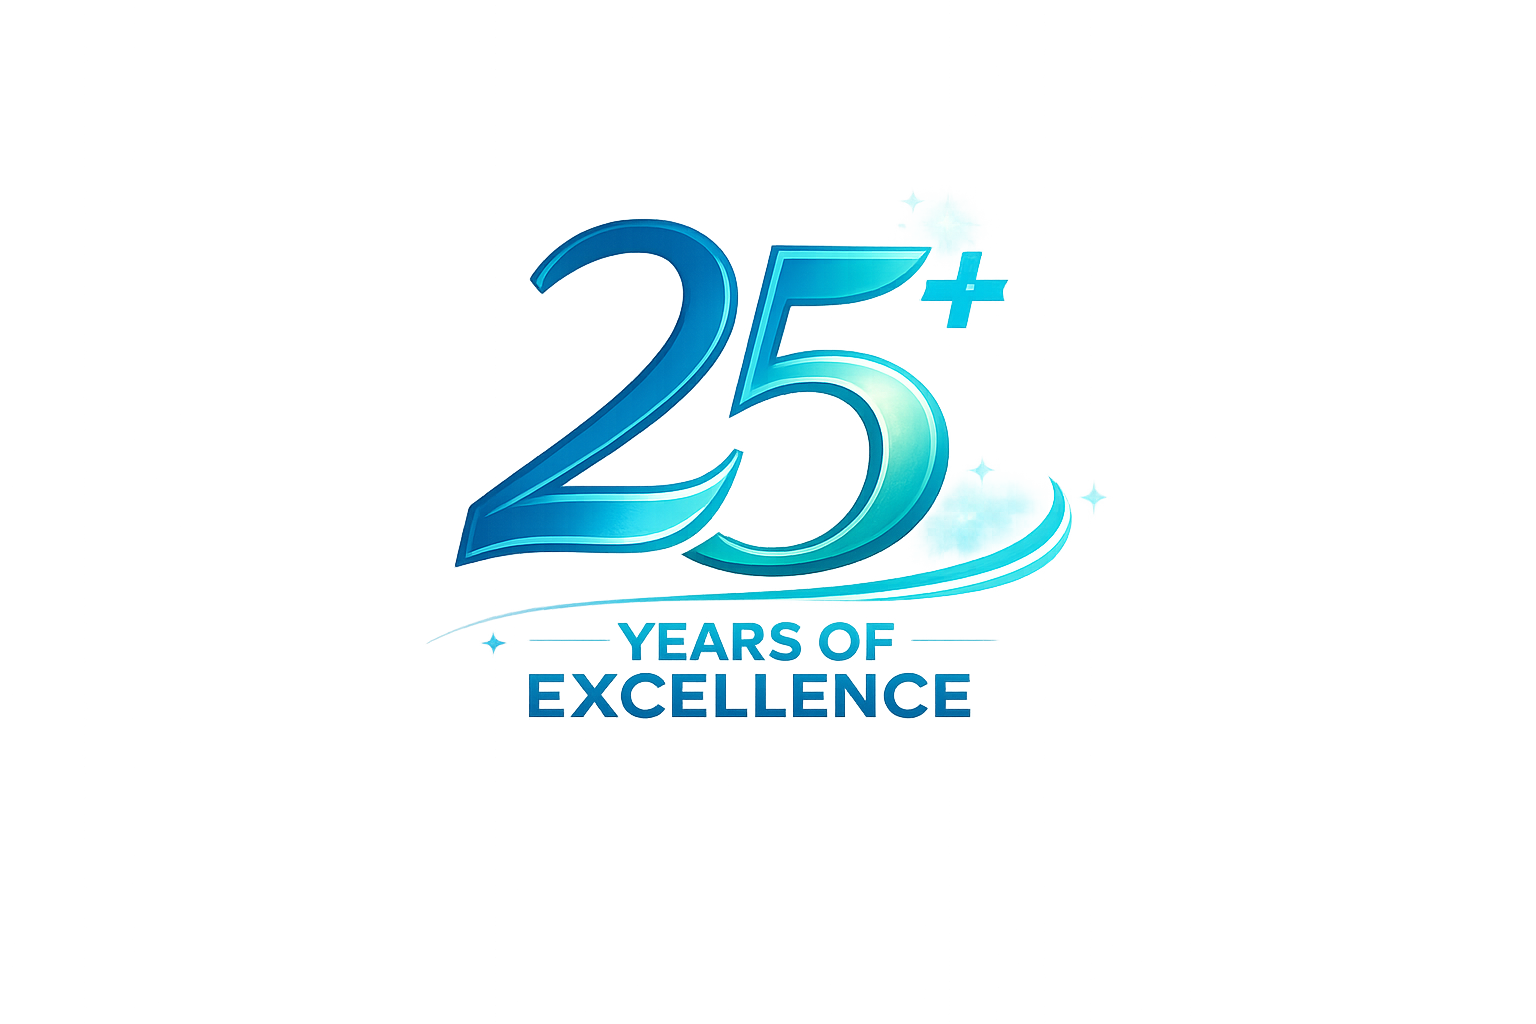
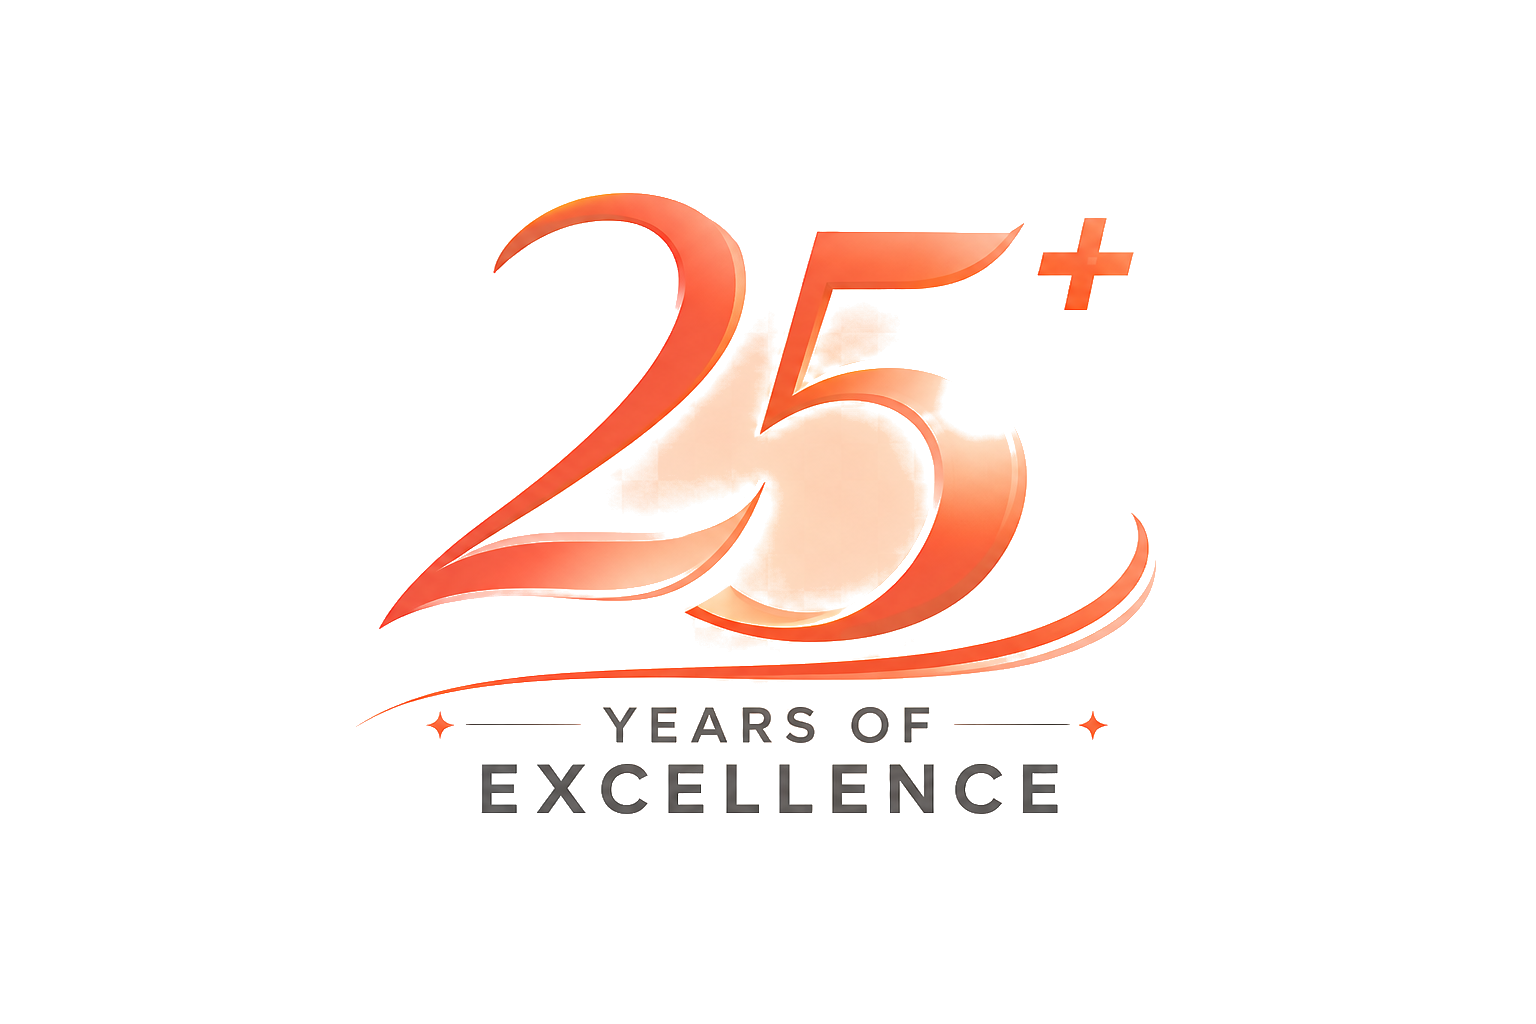
feat: add homepage Placements section, swap 25-years image asset
- New warm-orange "25+ Years of Excellence" graphic replaces the old
  cyan-on-grey one. The exported PNG had no real alpha channel (a
  checkerboard transparency indicator was baked into opaque pixels
  rather than true alpha) so it needed a proper cutout, not just a
  mix-blend-mode swap: punched transparency based on pixel brightness,
  preserving the saturated orange numerals and dark wordmark. Dropped
  mix-blend-screen in about-nifs.tsx now that the asset is genuinely
  transparent.
- New Placements homepage section (src/components/sections/
  placements-section.tsx), inserted between AboutNifs and CentersGrid
  inside the existing SpineLayout. Reuses SpineGutterBg/SpineSplit
  unmodified; a count-up "45,000+ Candidates Placed" flagship stat
  (first use of the previously-unused useCountUp/useInView hooks) with
  a warm radial glow sits in the spine center slot, career-outcome
  copy + roles on the left (reused verbatim from the /placements page),
  a featured recruiter-logo grid on the right, and a full-width
  scrolling marquee of all 18 real recruiter logos below. Only
  previously-verified numbers are used — no salary figures, placement
  percentages, or individual testimonials, since none of those exist
  anywhere in this codebase as verified data.

Changed region(s): [[0.25, 0.1875, 0.75, 0.8125], [0.6875, 0.6875, 0.7188, 0.7188]]

diff --git a/src/components/sections/placements-section.tsx b/src/components/sections/placements-section.tsx
@@ -1,0 +1,223 @@
+"use client";
+
+import Image from "next/image";
+import Link from "next/link";
+import { motion, useReducedMotion } from "framer-motion";
+import { recruiterLogos } from "@/lib/data/centers";
+import { SpineGutterBg, SpineSplit } from "@/components/sections/spine-helpers";
+import { useCountUp, useInView } from "@/components/sections/scroll-reveal-hooks";
+
+const roles = [
+  "Fire Safety Officer",
+  "Industrial Safety Supervisor",
+  "HSE Manager",
+  "Emergency Response Coordinator",
+  "Risk Analyst",
+];
+
+const featuredRecruiters = ["Adani", "L&T", "ITC", "GMR", "MEIL", "Amazon"];
+
+function FlagshipStat({ size = "large" }: { size?: "large" | "small" }) {
+  const reduceMotion = useReducedMotion();
+  const [ref, inView] = useInView<HTMLDivElement>(0.4);
+  const [value, done] = useCountUp(45000, inView, 1400);
+  const displayValue = reduceMotion ? 45000 : value;
+  const glowSize = size === "large" ? "320px" : "220px";
+  const numberClass = size === "large" ? "text-6xl" : "text-4xl";
+
+  return (
+    <div ref={ref} className="relative flex flex-col items-center justify-center gap-2 text-center">
+      <div
+        aria-hidden="true"
+        className="absolute rounded-full"
+        style={{
+          width: glowSize,
+          height: glowSize,
+          background:
+            "radial-gradient(circle, color-mix(in oklch, var(--nifs-orange) 55%, transparent) 0%, transparent 70%)",
+        }}
+      />
+      <span className={`relative font-display italic text-white ${numberClass}`}>
+        {displayValue.toLocaleString("en-IN")}
+        {(done || reduceMotion) && "+"}
+      </span>
+      <span className="relative text-xs font-medium tracking-[0.2em] text-white/70 uppercase">
+        Candidates Placed
+      </span>
+    </div>
+  );
+}
+
+function LogoMarquee() {
+  const track = (
+    <div className="flex w-max items-center whitespace-nowrap">
+      {recruiterLogos.map((r) => (
+        <div
+          key={r.name}
+          className="mx-3 flex h-16 w-32 shrink-0 items-center justify-center rounded-md bg-white p-3"
+        >
+          <div className="relative h-full w-full">
+            <Image src={r.logo!} alt={r.name} fill className="object-contain" sizes="128px" />
+          </div>
+        </div>
+      ))}
+    </div>
+  );
+
+  return (
+    <div className="relative z-[3] mt-14 overflow-hidden">
+      <div className="pointer-events-none absolute inset-y-0 left-0 z-10 w-16 bg-gradient-to-r from-[#111111] to-transparent lg:w-32" />
+      <div className="pointer-events-none absolute inset-y-0 right-0 z-10 w-16 bg-gradient-to-l from-[#111111] to-transparent lg:w-32" />
+      <div className="animate-marquee flex w-max">
+        {track}
+        {track}
+      </div>
+    </div>
+  );
+}
+
+export function Placements() {
+  const reduceMotion = useReducedMotion();
+  const fadeUp = reduceMotion
+    ? {}
+    : {
+        initial: { opacity: 0, y: 24 },
+        whileInView: { opacity: 1, y: 0 },
+        viewport: { once: true, margin: "-100px" },
+        transition: { duration: 0.6, ease: "easeOut" as const },
+      };
+
+  const remainingCount = recruiterLogos.length - featuredRecruiters.length;
+
+  return (
+    <section className="relative overflow-hidden py-6 lg:py-0">
+      <SpineGutterBg color="#111111" />
+
+      {/* ── DESKTOP: spine split ── */}
+      <div className="hidden lg:block">
+        <SpineSplit
+          align="center"
+          left={
+            <motion.div {...fadeUp} className="text-white">
+              <span className="text-xs font-semibold tracking-widest text-primary uppercase">
+                Career Outcomes
+              </span>
+              <h2 className="font-display mt-3 text-3xl italic leading-tight">
+                Where our graduates work
+              </h2>
+              <p className="mt-4 text-sm leading-relaxed text-white/70">
+                Our placement cell partners directly with recruiters across
+                construction, EPC, manufacturing, and FMCG to place every
+                graduating batch into real industrial safety roles.
+              </p>
+              <ul className="mt-5 space-y-1.5 text-sm text-white/80">
+                {roles.map((role) => (
+                  <li key={role} className="flex items-center gap-2">
+                    <span className="h-1 w-1 shrink-0 rounded-full bg-primary" />
+                    {role}
+                  </li>
+                ))}
+              </ul>
+              <Link
+                href="/placements"
+                className="mt-6 inline-block text-sm font-medium text-primary underline-offset-4 hover:underline"
+              >
+                View All Placements →
+              </Link>
+            </motion.div>
+          }
+          center={
+            <motion.div {...fadeUp}>
+              <FlagshipStat />
+            </motion.div>
+          }
+          right={
+            <motion.div {...fadeUp}>
+              <div className="grid grid-cols-3 gap-3">
+                {recruiterLogos
+                  .filter((r) => featuredRecruiters.includes(r.name))
+                  .map((r) => (
+                    <div
+                      key={r.name}
+                      className="flex h-16 items-center justify-center rounded-md border border-white/10 bg-white p-3"
+                    >
+                      <div className="relative h-full w-full">
+                        <Image
+                          src={r.logo!}
+                          alt={r.name}
+                          fill
+                          className="object-contain"
+                          sizes="100px"
+                        />
+                      </div>
+                    </div>
+                  ))}
+              </div>
+              <p className="mt-3 text-xs text-white/60">
+                +{remainingCount} more recruiting partners
+              </p>
+            </motion.div>
+          }
+        />
+      </div>
+
+      {/* ── MOBILE: stacked single column ── */}
+      <div className="relative z-[3] mx-auto max-w-5xl px-6 py-16 text-center text-white lg:hidden">
+        <motion.div {...fadeUp}>
+          <span className="text-xs font-semibold tracking-widest text-primary uppercase">
+            Career Outcomes
+          </span>
+          <h2 className="font-display mt-3 text-2xl italic leading-tight">
+            Where our graduates work
+          </h2>
+          <p className="mx-auto mt-4 max-w-[420px] text-sm leading-relaxed text-white/70">
+            Our placement cell partners directly with recruiters across
+            construction, EPC, manufacturing, and FMCG to place every
+            graduating batch into real industrial safety roles.
+          </p>
+        </motion.div>
+
+        <motion.div {...fadeUp} className="mt-10">
+          <FlagshipStat size="small" />
+        </motion.div>
+
+        <motion.ul {...fadeUp} className="mx-auto mt-8 flex max-w-[320px] flex-col gap-1.5 text-sm text-white/80">
+          {roles.map((role) => (
+            <li key={role} className="flex items-center justify-center gap-2">
+              <span className="h-1 w-1 shrink-0 rounded-full bg-primary" />
+              {role}
+            </li>
+          ))}
+        </motion.ul>
+
+        <motion.div {...fadeUp} className="mt-8 grid grid-cols-3 gap-3">
+          {recruiterLogos
+            .filter((r) => featuredRecruiters.includes(r.name))
+            .map((r) => (
+              <div
+                key={r.name}
+                className="flex h-16 items-center justify-center rounded-md border border-white/10 bg-white p-3"
+              >
+                <div className="relative h-full w-full">
+                  <Image src={r.logo!} alt={r.name} fill className="object-contain" sizes="100px" />
+                </div>
+              </div>
+            ))}
+        </motion.div>
+        <p className="mt-3 text-xs text-white/60">
+          +{remainingCount} more recruiting partners
+        </p>
+
+        <Link
+          href="/placements"
+          className="mt-6 inline-block text-sm font-medium text-primary underline-offset-4 hover:underline"
+        >
+          View All Placements →
+        </Link>
+      </div>
+
+      <LogoMarquee />
+      <div className="relative z-[3] pb-10 lg:pb-16" />
+    </section>
+  );
+}

diff --git a/src/app/page.tsx b/src/app/page.tsx
@@ -4,6 +4,7 @@ import { SpineLayout } from "@/components/SpineLayout";
 import { TunnelHero } from "@/components/sections/tunnel-hero";
 import { WhyNIFS } from "@/components/sections/WhyNIFS";
 import { AboutNifs } from "@/components/sections/about-nifs";
+import { Placements } from "@/components/sections/placements-section";
 import { CentersGrid } from "@/components/sections/centers-grid";
 
 export default function HomePage() {
@@ -12,10 +13,11 @@ export default function HomePage() {
       {/* Hero — full-viewport scroll image tunnel with headline overlay */}
       <TunnelHero />
 
-      {/* Continuous spine through Welcome → About → Map */}
+      {/* Continuous spine through Welcome → About → Placements → Map */}
       <SpineLayout>
         <WhyNIFS />
         <AboutNifs />
+        <Placements />
         <CentersGrid />
       </SpineLayout>
     </>

diff --git a/src/components/sections/about-nifs.tsx b/src/components/sections/about-nifs.tsx
@@ -80,7 +80,7 @@ export function AboutNifs() {
               alt="25+ Years of Excellence"
               fill
               sizes="380px"
-              className="object-contain mix-blend-screen"
+              className="object-contain"
             />
           </motion.div>
         </div>